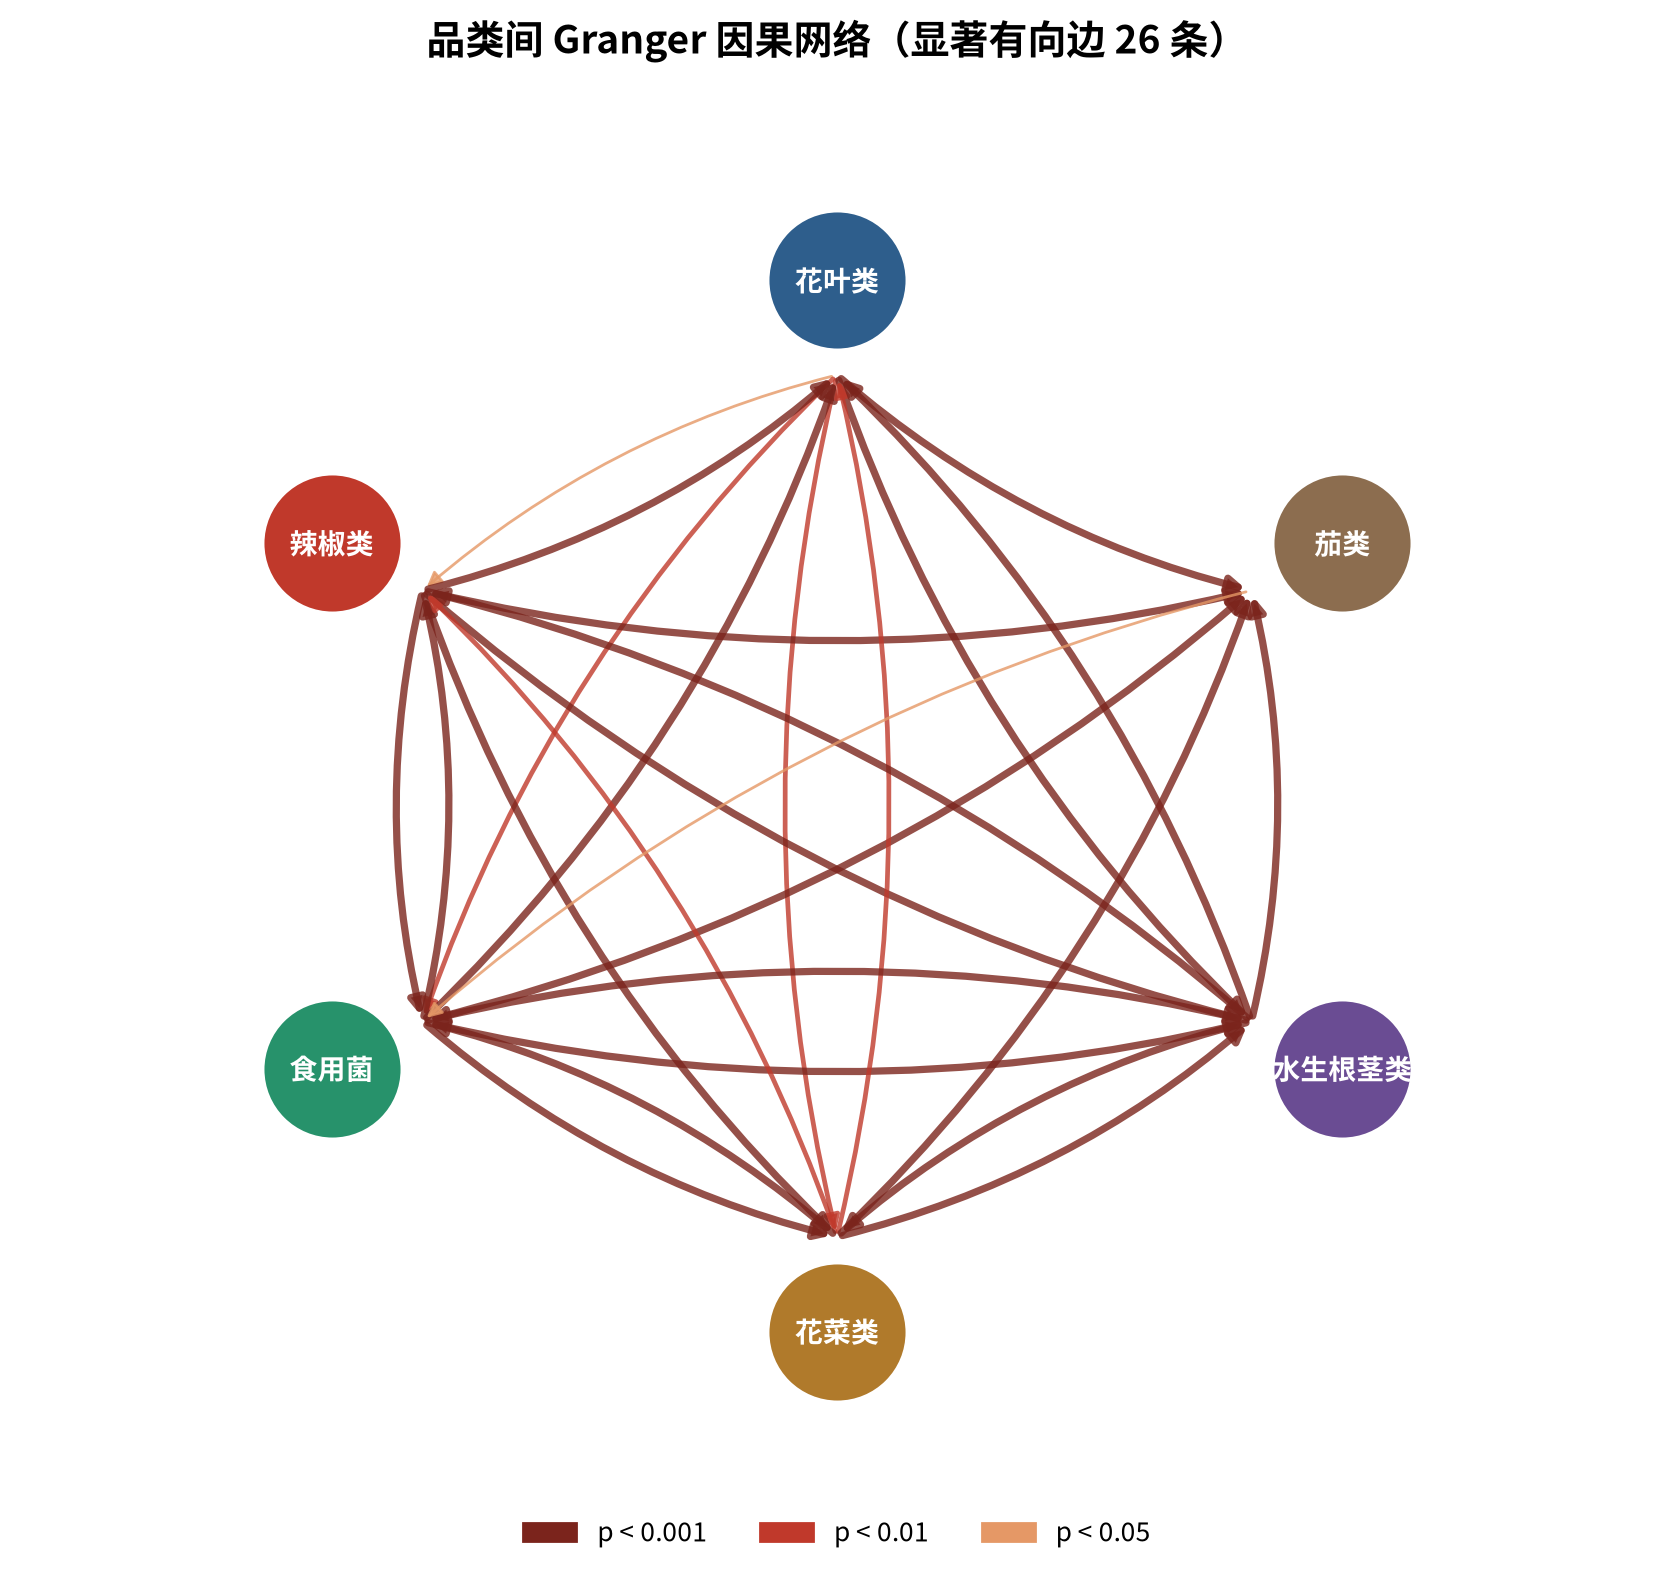
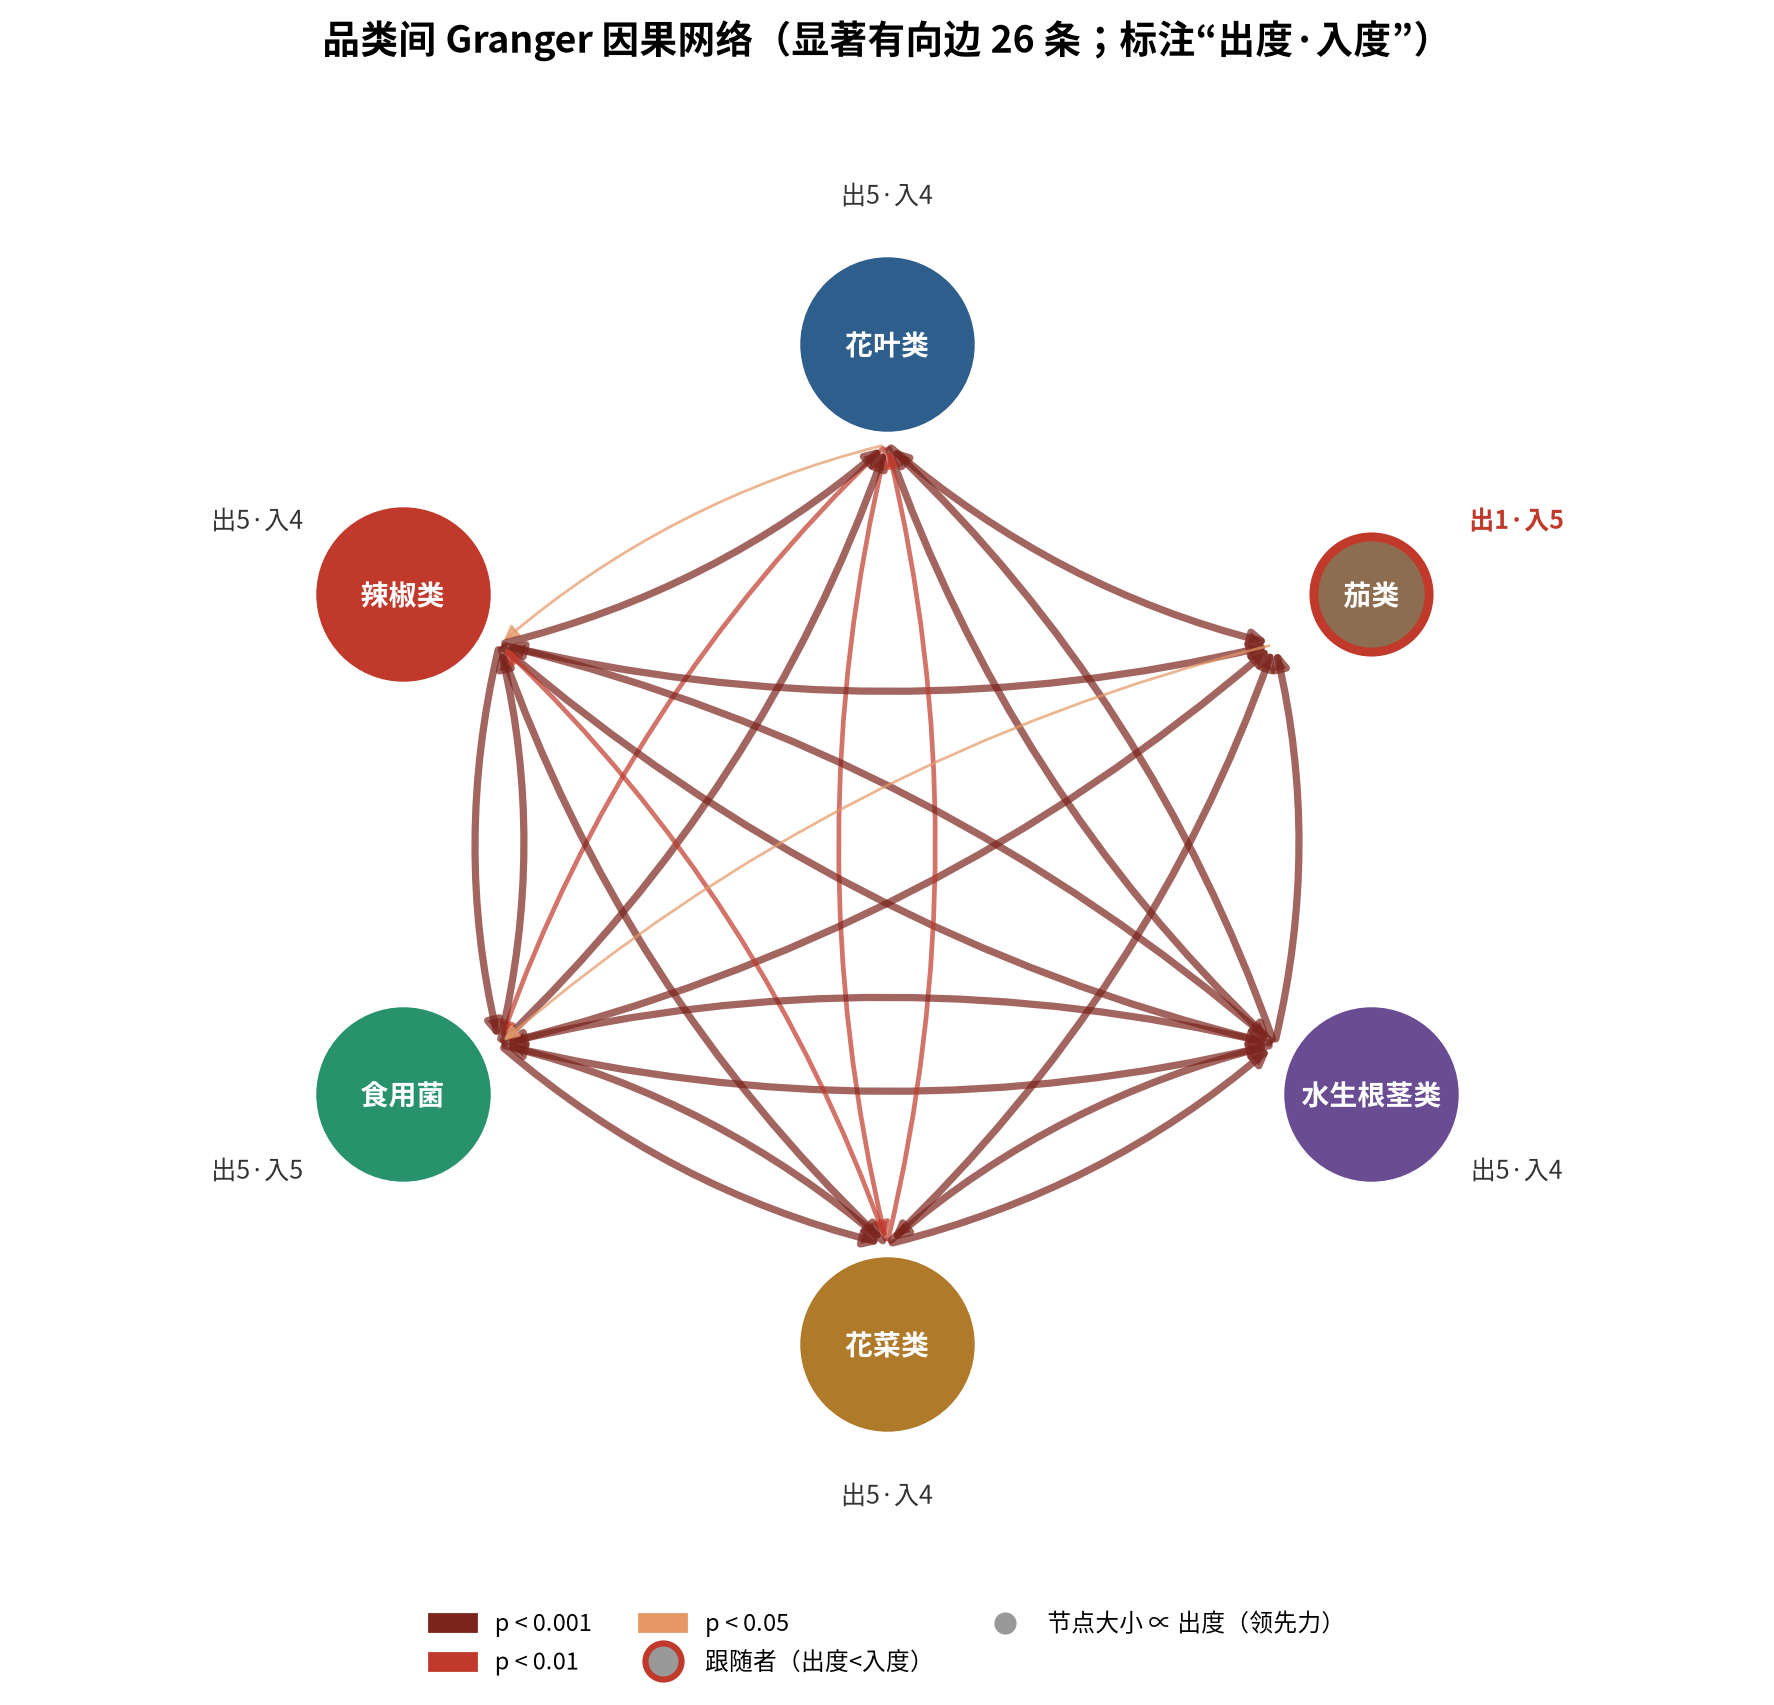
修正 Granger 因果网络描述并改进 fig05：去掉花叶类为唯一核心枢纽的不实说法，按出度可视化、标注茄类为需求跟随者

diff --git a/20260621CC/paper/build_part1.py b/20260621CC/paper/build_part1.py
@@ -166,27 +166,45 @@ stats["granger_total"] = n * (n - 1)
 
 # ============================ 图5  Granger 网络 ============================
 import matplotlib.patches as mpatches
+from matplotlib.lines import Line2D
+# 出度（领先他类）/入度（被他类领先）
+outdeg = {c: sum(1 for a, b, _ in edges if a == c) for c in C.ORDER}
+indeg = {c: sum(1 for a, b, _ in edges if b == c) for c in C.ORDER}
 ang = {cat: 2 * np.pi * i / n + np.pi / 2 for i, cat in enumerate(C.ORDER)}
 pos = {c: (np.cos(a), np.sin(a)) for c, a in ang.items()}
-fig, ax = C.plt.subplots(figsize=(8.5, 8))
+fig, ax = C.plt.subplots(figsize=(9, 8.6))
 for a, b, p in edges:
     x1, y1 = pos[a]; x2, y2 = pos[b]
     lw = 2.6 if p < 0.001 else (1.7 if p < 0.01 else 1.0)
     col = "#7B241C" if p < 0.001 else ("#C0392B" if p < 0.01 else "#E59866")
-    ax.annotate("", xy=(x2 * 0.82, y2 * 0.82), xytext=(x1 * 0.82, y1 * 0.82),
-                arrowprops=dict(arrowstyle="-|>", color=col, lw=lw, alpha=0.8,
+    ax.annotate("", xy=(x2 * 0.80, y2 * 0.80), xytext=(x1 * 0.80, y1 * 0.80),
+                arrowprops=dict(arrowstyle="-|>", color=col, lw=lw, alpha=0.7,
                                 connectionstyle="arc3,rad=0.12"))
 for c, (x, y) in pos.items():
-    ax.scatter([x], [y], s=2600, color=C.PALETTE[c], zorder=5, edgecolors="white", lw=2)
+    size = 1100 + 620 * outdeg[c]                       # 节点大小 ∝ 出度（领先力）
+    follower = outdeg[c] < indeg[c]                      # 净接收端（跟随者）
+    ring = "#C0392B" if follower else "white"
+    ax.scatter([x], [y], s=size, color=C.PALETTE[c], zorder=5,
+               edgecolors=ring, lw=3.2 if follower else 2)
     ax.text(x, y, c, ha="center", va="center", color="white", fontsize=10,
             fontweight="bold", zorder=6)
-ax.set_xlim(-1.4, 1.4); ax.set_ylim(-1.4, 1.4); ax.axis("off")
+    lbl = f"出{outdeg[c]}·入{indeg[c]}"
+    ax.text(x * 1.30, y * 1.30, lbl, ha="center", va="center",
+            fontsize=9, color="#C0392B" if follower else "#333", zorder=6,
+            fontweight="bold" if follower else "normal")
+ax.set_xlim(-1.55, 1.55); ax.set_ylim(-1.55, 1.55); ax.axis("off")
 leg = [mpatches.Patch(color="#7B241C", label="p < 0.001"),
        mpatches.Patch(color="#C0392B", label="p < 0.01"),
-       mpatches.Patch(color="#E59866", label="p < 0.05")]
-ax.legend(handles=leg, loc="lower center", ncol=3, bbox_to_anchor=(0.5, -0.02))
-ax.set_title(f"品类间 Granger 因果网络（显著有向边 {len(edges)} 条）",
-             fontsize=14, fontweight="bold")
+       mpatches.Patch(color="#E59866", label="p < 0.05"),
+       Line2D([0], [0], marker="o", color="w", markerfacecolor="#999",
+              markeredgecolor="#C0392B", markeredgewidth=2.2, markersize=13,
+              label="跟随者（出度<入度）"),
+       Line2D([0], [0], marker="o", color="w", markerfacecolor="#999",
+              markersize=9, label="节点大小 ∝ 出度（领先力）")]
+ax.legend(handles=leg, loc="lower center", ncol=3, bbox_to_anchor=(0.5, -0.05),
+          fontsize=8.5, framealpha=0.9)
+ax.set_title(f"品类间 Granger 因果网络（显著有向边 {len(edges)} 条；标注“出度·入度”）",
+             fontsize=13.5, fontweight="bold")
 fig.tight_layout()
 C.save(fig, "fig05_granger_network.png")
 

diff --git a/20260621CC/paper/main.tex b/20260621CC/paper/main.tex
@@ -202,12 +202,12 @@ Y(t)=T(t)+S(t)+R(t),
 \noindent 品类间普遍存在显著正向依赖，最强为\textbf{花叶类—花菜类}（$\tau=0.457$）、\textbf{食用菌—水生根茎类}（$\tau=0.435$）与\textbf{花叶类—辣椒类}（$\tau=0.428$），说明这些品类常被消费者同篮购买、需求存在协同上行的尾部依赖，对联合补货具有重要意义。
 
 \subsubsection{Granger 因果与互信息网络}
-对各品类对数差分序列两两做 Granger 因果检验（最大滞后 3 阶），在 $30$ 组有向配对中有 $\mathbf{26}$ 组在 $5\%$ 水平显著（占 $86.7\%$），构成图~\ref{fig:granger} 的因果网络；并以互信息度量非线性依赖、与 Pearson 线性相关对照（图~\ref{fig:mi}）。花叶类、辣椒类、食用菌位于网络中心，其销量变化对其余品类具有显著的领先指示作用，可作为需求预测的领先变量。
+对各品类对数差分序列两两做 Granger 因果检验（最大滞后 3 阶），在 $30$ 组有向配对中有 $\mathbf{26}$ 组在 $5\%$ 水平显著（占 $86.7\%$），构成图~\ref{fig:granger} 的因果网络；并以互信息度量非线性依赖、与 Pearson 线性相关对照（图~\ref{fig:mi}）。该网络\textbf{近乎全连接}：花叶类、辣椒类、食用菌、花菜类、水生根茎类五个品类的\textbf{出度均为 5}，即各自的销量变化都对其余全部品类有显著领先作用，彼此互为领先变量，反映出生鲜需求受共同因素（季节、天气、客流）驱动而高度协同，因此网络中并不存在某个“唯一枢纽”。真正具有方向性差异的是\textbf{茄类}：其\textbf{出度仅为 1、入度高达 5}，是近乎纯粹的\textbf{“需求跟随者”}——其销量被其余品类的变化带动，却几乎不领先任何品类。实务上，出度高的品类（如花叶类、食用菌）可作为整体需求的领先指示，而对茄类则更适合参照其他品类的走势进行被动跟随式补货。
 
 \begin{figure}[H]
   \centering
   \includegraphics[width=0.62\textwidth]{fig05_granger_network.png}
-  \caption{品类间 Granger 因果网络（边色深浅表示显著性水平）}
+  \caption{品类间 Granger 因果网络：节点大小 $\propto$ 出度（领先力）、红圈标注净接收端（跟随者），边色深浅表示显著性水平}
   \label{fig:granger}
 \end{figure}
 